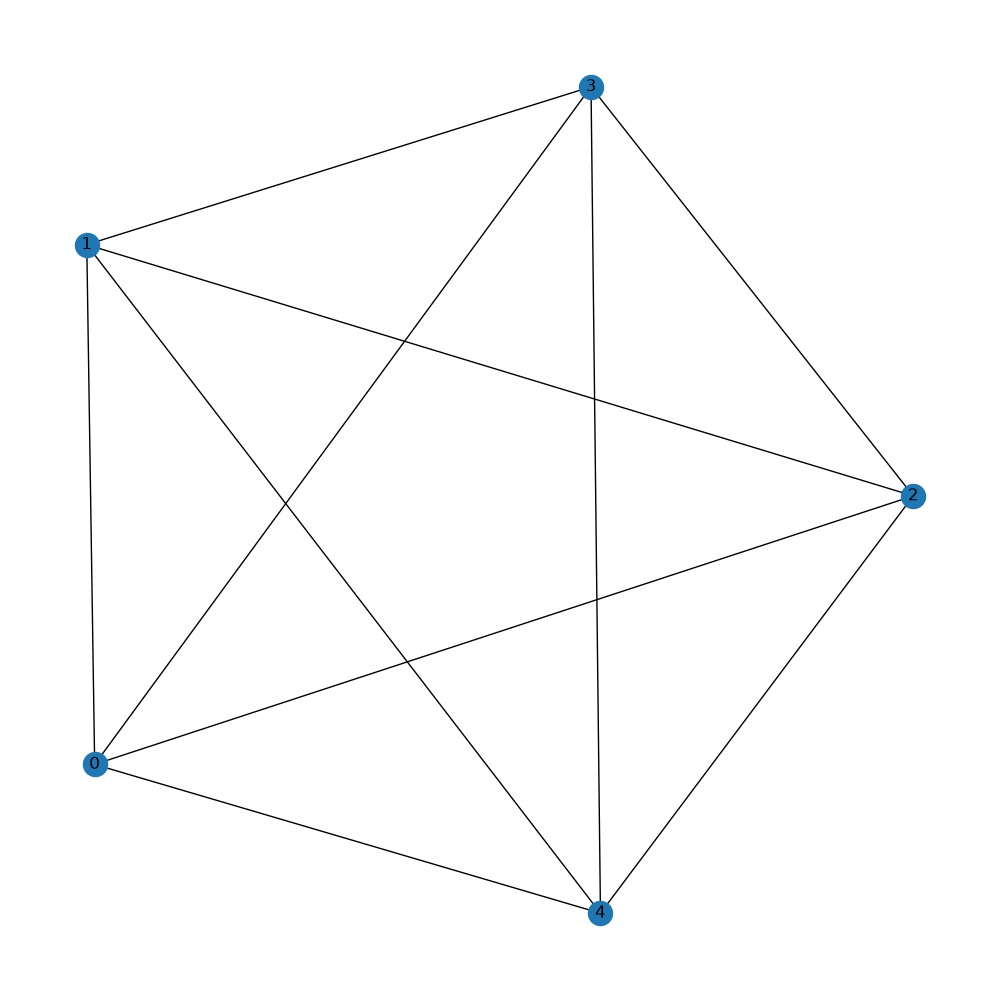
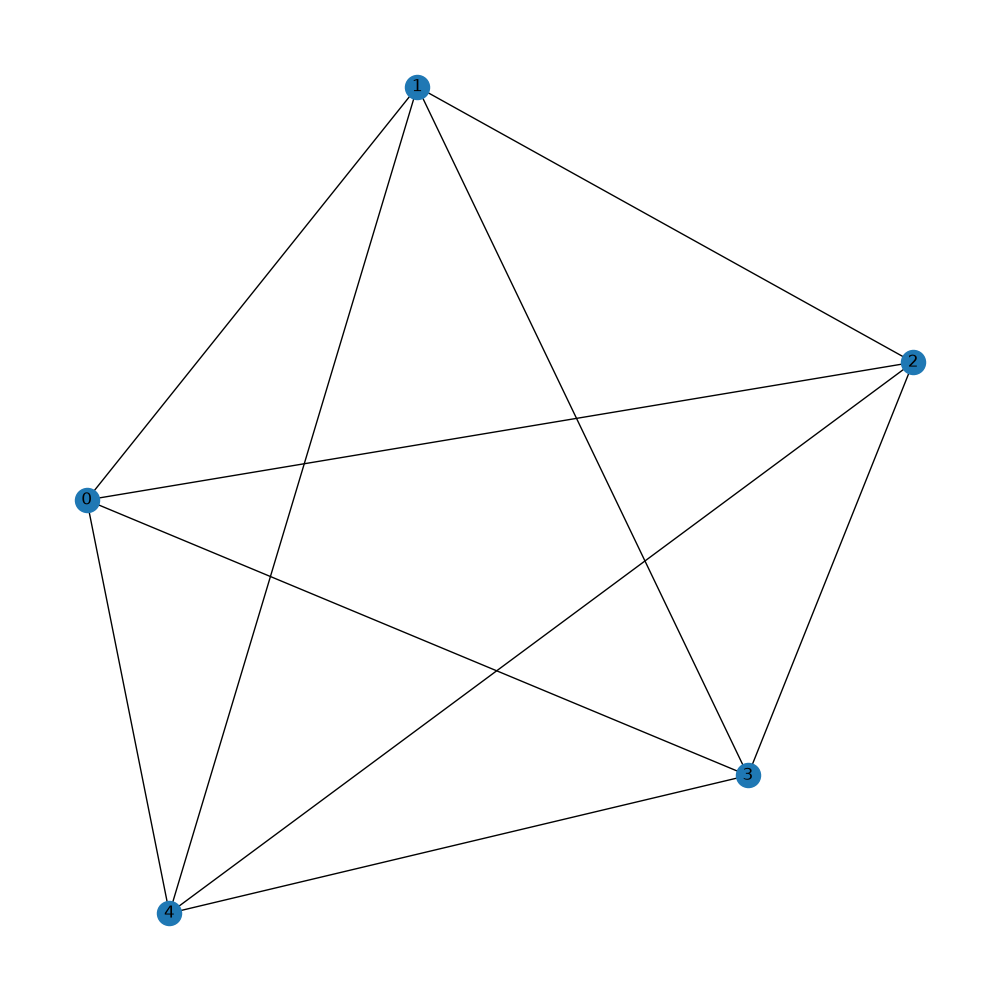
Add visualization with 2D coordinates

diff --git a/spd_utils/visualize_index.py b/spd_utils/visualize_index.py
@@ -1,11 +1,13 @@
 import networkx as nx
 import matplotlib.pyplot as plt
 import argparse
+import pandas as pd
 import re
 
 parser = argparse.ArgumentParser(description='Visualize a graph from an adjacency list')
 parser.add_argument('input_file', help='Path to the adjacency list file')
 parser.add_argument('output_file', help='Path to save the output image')
+parser.add_argument('--coords_file', help='Path of 2D coordinates csv')
 args = parser.parse_args()
 
 G = nx.Graph()
@@ -21,5 +23,12 @@ with open(args.input_file, 'r') as f:
         line = f.readline().strip()
 
 plt.figure(figsize=(10, 10))
-nx.draw(G, with_labels=True)
+if args.coords_file: # Draw the graph using the provided 2D coordinates
+    coords_df = pd.read_csv(args.coords_file, header=None)
+    if coords_df.shape[1] != 2:
+        raise ValueError("Coordinate csv file must have exactly 2 columns for 2D plotting")
+    pos = {index: (row[0], row[1]) for index, row in coords_df.iterrows()}
+    nx.draw(G, pos=pos, with_labels=True)
+else:
+    nx.draw(G, with_labels=True)
 plt.savefig(args.output_file)

diff --git a/spd_utils/README.md b/spd_utils/README.md
@@ -47,6 +47,10 @@ Visualize the adjacency structure of a graph (note this does not reflect the coo
 ```
 python3 visualize_index.py [adjacency list file] [path for output png]
 ```
+If the dimension is 2, you can plot the graph with the points' coordinates:
+```
+python3 visualize_index.py [adjacency list file] [path for output png] --coords_file [coordinates csv file]
+```
 
 Convert a fvecs dataset to csv: (SIFT-small example)
 ```
